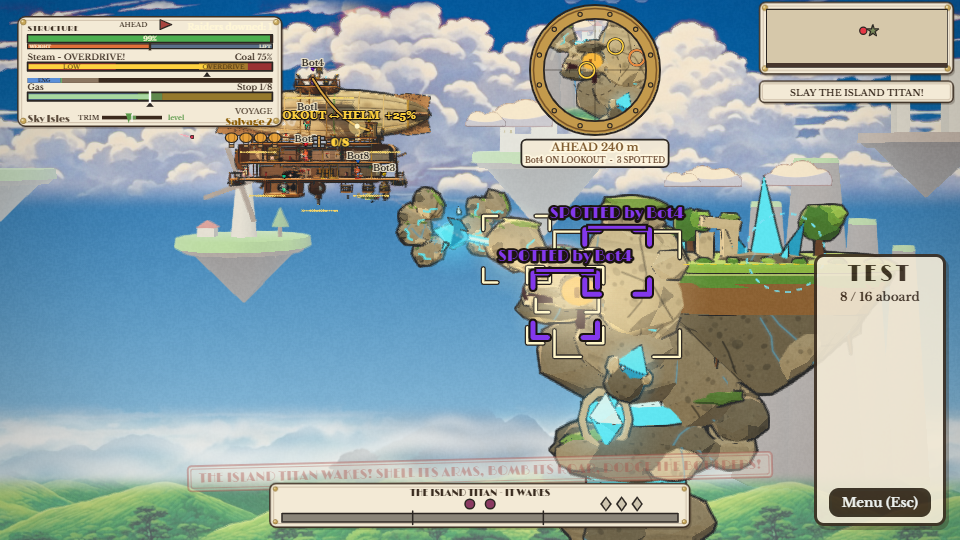
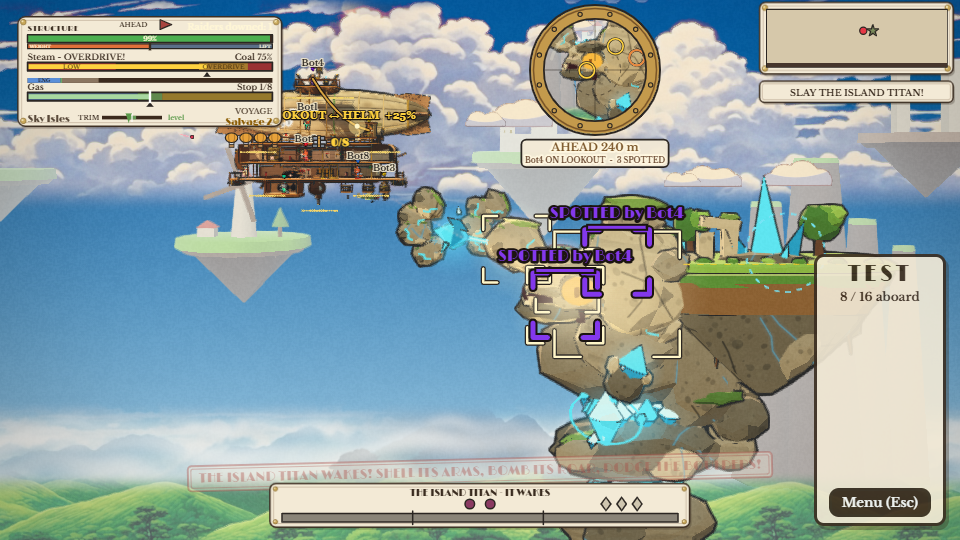
Island Titan 3D polish (v3): the chest's stone ring is replaced by a crystal heart hovering in the gap with a ring of light and orbiting shards; the arms' stones ease apart (and shrink to 60%) at rest so a glowing gap always shows; gap plates are crystal clusters with soft glows; bead-chain tethers;

diff --git a/public/modules/view3d/titanModel.js b/public/modules/view3d/titanModel.js
@@ -97,17 +97,29 @@ export function torsoZ(x, y) { // the depth of the torso's near skin at (x, y) (
   return z;
 }
 const topY = (s, x, z) => { const u = ((x - s[0]) / s[2]) ** 2 + (z / s[4]) ** 2; return u < 0.95 ? s[1] + s[3] * Math.sqrt(1 - u) : s[1] + s[3] * 0.2; }; // the height of a stone's top at (x, z)
-// a glowing crystal plate in the gap between two floating stones: a flattened disc (rx, rz) of cyan light with a pale heart
+// a cluster of crystal light in the gap between two floating stones: a fat pale column in the middle with a ring of tilted spires round it, each a two-tone bipyramid (lighter above, darker below, so the facets read). They are held
+// apart by the cluster and the sky shows between its spires (rx, rz = the half sizes at the stones, thick = the gap's height; the spires' ends are hidden in the stones)
 function addGapPlate(mesh, P, OW, cx, cy, rx, rz, thick, name) {
-  const g = new THREE.CylinderGeometry(1, 1, 1, 12, 1);
-  flat(mesh, g, M4(V(cx, cy, 0), null, V(rx, thick, rz)), { ow: OW * 0.3, color: P.crystal, glow: 3, name });
-  flat(mesh, g, M4(V(cx, cy, 0), null, V(rx * 0.7, thick * 1.08, rz * 0.7)), { ow: 0, color: P.crystalIn, glow: 4, name });
+  const spire = (x, z, r, hl, tiltX, tiltZ, top, bot, ow) => {
+    const up = new THREE.ConeGeometry(r, hl, 6, 1), dn = new THREE.ConeGeometry(r, hl, 6, 1);
+    up.translate(0, hl / 2, 0); dn.rotateX(Math.PI); dn.translate(0, -hl / 2, 0);
+    const q = new THREE.Quaternion().setFromEuler(new THREE.Euler(tiltX, 0.5, tiltZ));
+    flat(mesh, up, M4(V(cx + x, cy, z), q), { ow, color: top, glow: 3, name });
+    flat(mesh, dn, M4(V(cx + x, cy, z), q), { ow, color: bot, glow: 3, name });
+  };
+  const N = 9;
+  for (let k = 0; k < N; k++) {
+    const an = (k / N) * TAU + 0.35, x = Math.cos(an) * rx * 0.76, z = Math.sin(an) * rz * 0.76, h1 = hash(k, 7, 3), h2 = hash(k, 9, 4);
+    spire(x, z, rx * (0.2 + 0.06 * h1), thick * (0.85 + 0.4 * h2), Math.sin(an) * 0.14, -Math.cos(an) * 0.14, k % 2 ? P.crystalIn : P.crystal, P.crystalDk, OW * 0.3);
+  }
+  spire(0, 0, rx * 0.34, thick * 1.1, 0, 0, P.crystalIn, P.crystal, OW * 0.3);
 }
 const SEG = (a, b, w, d, color, mesh, o = {}) => { // a thin stick from a to b (3D points): a box along the line
   const dir = b.clone().sub(a), len = dir.length(), mid = a.clone().add(b).multiplyScalar(0.5), q = new THREE.Quaternion().setFromUnitVectors(V(1, 0, 0), dir.normalize());
   flat(mesh, new THREE.BoxGeometry(len, w, d), M4(mid, q), { color, ...o });
 };
 
+export const HEART = { x: 330, y: 960, z: 330 }; // the crystal heart's place in the body's frame
 export function buildTitan(cr, P, opts = {}) {
   const OW = P.INK || 26, low = !!opts.low, mesh = new Mesher();
   // --- the torso: three floating faceted boulders (chest, belly, hips) with a cyan plate of light in each gap ---
@@ -136,12 +148,12 @@ export function buildTitan(cr, P, opts = {}) {
   stone(mesh, rockGeo(880, 600, 290, { detail: 1, jitter: 0.12, seed: 51, squashTop: 0.2 }), M4(V(1210, -1700, hz)), { ow: OW * 0.9, color: P.stoneDk, name: 'heap', seed: 51 });
   for (const [x, y, r, k] of [[900, -1180, 230, 0], [1250, -1300, 260, 1], [1560, -1700, 220, 2], [700, -1650, 200, 3], [1100, -1850, 240, 4], [1850, -2000, 180, 5]]) stone(mesh, rockGeo(r, r * 0.8, r * 0.9, { detail: 1, jitter: 0.22, seed: 60 + k }), M4(V(x, y, hz + (k % 2 ? 90 : -40)), qz(k)), { ow: OW * 0.7, color: k % 2 ? P.stone : P.stoneLt, name: 'heap', seed: 60 + k });
   // --- the heartstone in the first gap and the vein that climbs the chest toward the island: cyan, glowing (channels 4 and 3) ---
-  const hx = 330, hy = 960, hzz = 340;
-  const crown = new THREE.ConeGeometry(1, 1, 4, 1), base = new THREE.ConeGeometry(1, 1, 4, 1);
+  const hx = HEART.x, hy = HEART.y, hzz = HEART.z; // a cut crystal heart hovering in the gap between the chest and the belly; no ring of stone: a thin ring of light with shards orbits it (the piece 'heartO')
+  const crown = new THREE.ConeGeometry(1, 1, 6, 1), base = new THREE.ConeGeometry(1, 1, 6, 1);
   crown.translate(0, 0.5, 0); base.rotateX(Math.PI); base.translate(0, -0.5, 0);
-  flat(mesh, crown, M4(V(hx, hy, hzz), qy(Math.PI / 4), V(190, 250, 110)), { ow: OW * 0.5, color: P.crystalIn, glow: 4, name: 'heartstone' });
-  flat(mesh, base, M4(V(hx, hy, hzz), qy(Math.PI / 4), V(190, 250, 110)), { ow: OW * 0.5, color: P.crystal, glow: 4, name: 'heartstone' });
-  flat(mesh, new THREE.TorusGeometry(215, 34, 5, 10), M4(V(hx, hy, hzz - 30), qy(0), V(1, 1.25, 0.6)), { ow: OW * 0.5, color: P.stoneLt, name: 'heartstone' });
+  flat(mesh, crown, M4(V(hx, hy + 20, hzz), qy(Math.PI / 6), V(170, 250, 120)), { ow: OW * 0.5, color: P.crystalIn, glow: 4, name: 'heartstone' });
+  flat(mesh, base, M4(V(hx, hy + 20, hzz), qy(Math.PI / 6), V(170, 320, 120)), { ow: OW * 0.5, color: P.crystal, glow: 4, name: 'heartstone' });
+  flat(mesh, base, M4(V(hx + 24, hy + 20, hzz + 40), qy(Math.PI / 6), V(80, 210, 56)), { ow: 0, color: P.crystalIn, glow: 4, name: 'heartstone' }); // the pale heart inside it
   const vein = [[330, 960], [230, 1250], [90, 1450], [-120, 1720], [-380, 1950]];
   for (let i = 0; i < vein.length - 1; i++) {
     const a = vein[i], b = vein[i + 1], za = Math.max(250, torsoZ(a[0], a[1]) + 26), zb = Math.max(200, torsoZ(b[0], b[1]) + 26);
@@ -186,8 +198,8 @@ function addHead(mesh, P, OW, low) {
   stone(mesh, rockGeo(260, 200, 330, { detail: 1, jitter: 0.2, seed: 4 }), M4(V(-150, 640, 0)), { ow: OW * 0.8, color: P.stone, name: 'head', seed: 4 });
   flat(mesh, rockGeo(330, 80, 300, { detail: 1, jitter: 0.25, seed: 5 }), M4(V(-170, 800, 20), qz(0.1)), { ow: OW * 0.3, color: P.moss, name: 'head' });
   flat(mesh, rockGeo(180, 60, 150, { detail: 1, jitter: 0.25, seed: 6 }), M4(V(-380, 540, -150)), { ow: OW * 0.3, color: P.mossDk, name: 'head' });
-  stone(mesh, rockGeo(170, 150, 150, { detail: 0, jitter: 0.2, seed: 7 }), M4(V(-420, 300, 410)), { ow: OW * 0.6, color: P.stoneLt, name: 'head', seed: 7 }); // ears
-  stone(mesh, rockGeo(170, 150, 150, { detail: 0, jitter: 0.2, seed: 8 }), M4(V(-420, 300, -410)), { ow: OW * 0.6, color: P.stoneLt, name: 'head', seed: 8 });
+  stone(mesh, rockGeo(165, 140, 130, { detail: 1, jitter: 0.22, seed: 7 }), M4(V(-420, 300, 410)), { ow: OW * 0.6, color: P.stone, name: 'head', seed: 7 }); // ears (rounded rocks, not flat hexagons)
+  stone(mesh, rockGeo(165, 140, 130, { detail: 1, jitter: 0.22, seed: 8 }), M4(V(-420, 300, -410)), { ow: OW * 0.6, color: P.stone, name: 'head', seed: 8 });
   // a rounded nose bridge above the lip
   stone(mesh, rockGeo(150, 125, 200, { detail: 1, jitter: 0.15, seed: 6 }), M4(V(650, 185, 0), qz(-0.1)), { ow: OW * 0.7, color: P.stoneLt, name: 'head', seed: 6 });
   // the eyes: a dark socket and a glowing amber ball (glow channel 1) on each side, under the brow
@@ -198,7 +210,7 @@ function addHead(mesh, P, OW, low) {
   }
   // the upper lip (a heavy rounded snout stone) with its row of stone teeth; behind it the dark throat that shows when the jaw drops
   stone(mesh, rockGeo(300, 95, 345, { detail: 1, jitter: 0.1, seed: 11 }), M4(V(545, 48, 0)), { ow: OW * 0.75, color: P.stone, name: 'head', seed: 11 });
-  flat(mesh, new THREE.BoxGeometry(70, 330, 600), M4(V(345, -110, 0)), { ow: 0, color: P.mouthIn, glow: 2, name: 'head' });
+  flat(mesh, new THREE.BoxGeometry(70, 250, 540), M4(V(345, -105, 0)), { ow: 0, color: P.mouthIn, glow: 2, name: 'head' });
   flat(mesh, new THREE.BoxGeometry(520, 40, 560), M4(V(590, -2, 0)), { ow: 0, color: P.mouthIn, glow: 2, name: 'head' }); // the roof of the mouth
   for (let k = 0; k < 5; k++) {
     const z = (k - 2) * 140, tooth = new THREE.ConeGeometry(50, 130, 4, 1);
@@ -271,6 +283,20 @@ function addBoulder(mesh, P, OW, r, nm, seed) {
   stone(mesh, rockGeo(r * 0.55, r * 0.4, r * 0.5, { detail: 0, jitter: 0.2, seed: seed + 2 }), M4(V(r * 0.5, -r * 0.45, r * 0.45)), { ow: OW * 0.3, color: P.boulderDk, name: nm, seed: seed + 2 });
 }
 
+// ---- the heart's orbit: a thin tilted ring of light with three crystal shards on it, built at the heart's centre; the view turns it about the vertical axis in held steps (the arms' shard rings do the same) ----------------------
+function addHeartOrbit(mesh, P, OW, name) {
+  const ring = new THREE.TorusGeometry(330, 13, 4, 28);
+  ring.rotateX(Math.PI / 2);
+  flat(mesh, ring, M4(V(0, 20, 0), qz(0.5)), { ow: 0, color: P.crystal, glow: 3, name });
+  for (let i = 0; i < 3; i++) {
+    const a = (i / 3) * TAU + 0.4, p = V(Math.cos(a) * 330, 20, Math.sin(a) * 330).applyQuaternion(qz(0.5)), q = qz(0.5 + (i - 1) * 0.3);
+    const up = new THREE.ConeGeometry(48, 96, 4, 1), dn = new THREE.ConeGeometry(48, 96, 4, 1);
+    up.translate(0, 48, 0); dn.rotateX(Math.PI); dn.translate(0, -48, 0);
+    flat(mesh, up, M4(p, q), { ow: OW * 0.3, color: i === 1 ? P.crystalIn : P.crystal, glow: i === 1 ? 4 : 3, name });
+    flat(mesh, dn, M4(p, q), { ow: OW * 0.3, color: P.crystalDk, glow: 3, name });
+  }
+}
+
 // ---- all the rigid pieces ------------------------------------------------------------------------------------------------------------------------------------------------------------------------
 export function buildPieces(cr, P, opts = {}) {
   const OW = P.INK || 26, low = !!opts.low, T = opts.T, mesh = new Mesher(), sides = low ? 9 : 12;
@@ -283,6 +309,7 @@ export function buildPieces(cr, P, opts = {}) {
   addRuin(mesh, P, OW, (T.ISLAND.X0 + T.ISLAND.X1) / 2 + 450, -T.ISLAND.TOP, opts.Z.ISLAND[0] + 560);
   for (let s = 0; s < 4; s++) addCrystal(mesh, P, OW, T.CRYSTAL.R, s);
   for (let b = 0; b < 3; b++) addBoulder(mesh, P, OW, T.BOULDER.R, 'boulder' + b, 140 + b * 7);
+  addHeartOrbit(mesh, P, OW, 'heartO');
   const arms = buildArmPieces(mesh, P, OW, T, { ...opts, cr });
   const geometry = mesh.build();
   return { geometry, set: new RigidSet(geometry, mesh.ranges), ranges: mesh.ranges, tris: mesh.verts / 3, arms };

diff --git a/public/modules/view3d/creatureTitan.js b/public/modules/view3d/creatureTitan.js
@@ -13,7 +13,7 @@ import { THREE, outlineMat, applyLook } from './style.js';
 import { config } from '../../config.js';
 import { Tinter, Mesher } from './creatureKit.js';
 import { paintTitanStone, paintBlank } from './titanPaint.js';
-import { buildTitan, buildPieces, JAW_PIVOT, V, M4, stone, rockGeo, hash } from './titanModel.js';
+import { buildTitan, buildPieces, JAW_PIVOT, HEART, V, M4, stone, rockGeo, hash } from './titanModel.js';
 import { addStoneBody, addCut, addBrokenHand, through, HAND } from './titanArms.js';
 import { createTitanOverlay } from './titanFx.js';
 
@@ -94,6 +94,23 @@ export function extendTitan(ctx) {
   const BOB = P.BOB || 22, SHIFT = 260; // (SHIFT: how far back a stone slides in depth where it would cover the face)
   const HEAD_AT = [T.BODY.HEAD.AT[0], -T.BODY.HEAD.AT[1]];
   const avoidHead = (x, y, r) => clamp((560 + 0.5 * r - Math.hypot(x - HEAD_AT[0], y - HEAD_AT[1])) / (0.6 * r + 60), 0, 1); // 1 where a near-arm stone would hide the face: it passes BEHIND the head there
+  // keep a glowing gap between the arm's stones (C: their centres, SC: their scales, both changed in place; A: the segments' angles; dm: the stones' sizes). The stone's reach along a direction is that of its ellipse.
+  const GAP = 150;
+  function spreadStones(C, SC, A, dm, n) {
+    const reach = (j, ux, uy) => { const th = 0.4 * FOLD(A[j]), c = Math.cos(th), s = Math.sin(th), lx = ux * c + uy * s, ly = -ux * s + uy * c, d = dm[j]; return 0.95 / Math.sqrt((lx / d.rx) ** 2 + (ly / d.ry) ** 2 + 1e-12); };
+    for (let it = 0; it < 2; it++) {
+      for (let j = 0; j + 1 < n; j++) {
+        let dx = C[j + 1].x - C[j].x, dy = C[j + 1].y - C[j].y, d = Math.hypot(dx, dy);
+        if (!(d > 1)) { dx = Math.cos(A[j]); dy = Math.sin(A[j]); d = 1; } // (the same place: along the arm)
+        const ux = dx / d, uy = dy / d, e0 = reach(j, ux, uy), e1 = reach(j + 1, -ux, -uy), need = e0 * SC[j] + e1 * SC[j + 1] + GAP;
+        if (d >= need) continue;
+        const push = Math.min(need - d, 0.25 * Math.min(dm[j].len, dm[j + 1].len)), w0 = j === 0 ? 0.4 : 0.55, w1 = 1 - w0;
+        C[j].x -= ux * push * w0; C[j].y -= uy * push * w0; C[j + 1].x += ux * push * w1; C[j + 1].y += uy * push * w1;
+        const d2 = d + push;
+        if (d2 < need) { const f = clamp((d2 - GAP) / (e0 + e1), 0.6, 1); SC[j] = Math.min(SC[j], f); SC[j + 1] = Math.min(SC[j + 1], f); }
+      }
+    }
+  }
   // o: { bp, bang, key, f, held (the boulder in this hand), gripping, gone, ta (the part's tint), GL (the glows) }
   function placeArm(tag, p, st, o) {
     const { bp, bang, key, f, held, gripping, gone, ta, GL } = o, full = dims[tag];
@@ -117,12 +134,17 @@ export function extendTitan(ctx) {
     { const sg = p.segs[n - 1], q = P3(sg.x + Math.cos(sg.ang) * sg.len, sg.y + Math.sin(sg.ang) * sg.len); J.push({ x: q.x, y: q.y, z: zAt(s, q.x, q.y) }); }
     const crackFrom = st >= 2 ? 1 : st === 1 ? 2 : 9;
     const tinted = (nme, fl) => ptint.set(rs[nme], ta[0] * fl, ta[1] * fl, ta[2] * fl);
+    // the stones' centres: the middle of each segment, but when the sim folds the arm in (its rest pose) they would crowd and overlap, so they are eased apart along the line between them (a quarter of a segment at most) and, if that is not
+    // enough, shrunk (to 60%) so a glowing gap always shows between two stones. VIEW ONLY: the joints, tethers, nodes and hand stay on the sim's own points, and an arm in a reach is not touched.
+    const CEN = [], SC = [1, 1, 1];
+    for (let j = 0; j < n; j++) CEN.push({ x: (J[j].x + J[j + 1].x) / 2, y: (J[j].y + J[j + 1].y) / 2, z: (J[j].z + J[j + 1].z) / 2 });
+    spreadStones(CEN, SC, A, full, n);
     for (let j = 0; j < 3; j++) {
       const na = 'a' + tag + j + 'a', nb = 'a' + tag + j + 'b', nt = 't' + tag + j;
       if (j >= n) { set.place(na, null); set.place(nb, null); set.place(nt, null); continue; }
-      const cracked = j >= crackFrom, fl = flickOf(key, tag, j, cracked), a = J[j], b = J[j + 1], mx = (a.x + b.x) / 2, my = (a.y + b.y) / 2, mz = (a.z + b.z) / 2;
+      const cracked = j >= crackFrom, fl = flickOf(key, tag, j, cracked), a = J[j], b = J[j + 1], mx = CEN[j].x, my = CEN[j].y, mz = CEN[j].z, sc = SC[j];
       set.place(cracked ? na : nb, null);
-      set.place(cracked ? nb : na, trn(mx, my + bobOf(key, tag, j) * BOB, mz).multiply(rotZ(0.4 * FOLD(A[j]))));
+      set.place(cracked ? nb : na, trn(mx, my + bobOf(key, tag, j) * BOB, mz).multiply(rotZ(0.4 * FOLD(A[j]))).multiply(scl(sc, sc, sc)));
       tinted(na, 1); tinted(nb, 1);
       const dx = b.x - a.x, dy = b.y - a.y, dz = b.z - a.z, d2 = Math.hypot(dx, dy), d3 = Math.hypot(d2, dz), L = full[j].len;
       set.place(nt, trn(a.x, a.y, a.z).multiply(rotZ(Math.atan2(dy, dx))).multiply(rotY(-Math.atan2(dz, Math.max(1, d2)))).multiply(scl(d3 / L, 1, 1)));
@@ -268,12 +290,15 @@ export function extendTitan(ctx) {
         set.place('jaw', Mj);
       } else { set.place('head', null); set.place('jaw', null); }
       // ---- the legs: they swap and lift on the sim's key while it walks; they shorten when it kneels ----
+      const GL = []; // (the soft glows of the body's light this frame, in the body's frame: x, y, z, radius, strength: the arms', the heart's and the gaps')
       const walking = !!tt.walking && !dying, leg = tt.leg ? 1 : 0, LG = T.BODY.LEGS;
       [['legN', LG.AT[0], 170, 1], ['legF', LG.AT[1], -170, 0]].forEach(([nme, lx, lz, isN]) => {
         const lifted = walking && (isN ? leg === 1 : leg === 0), swing = walking ? (lifted ? 0.1 : -0.05) : 0;
         const kn = 1 - 0.3 * S.kneel;
         const M = trn(lx, lifted ? LG.LIFT : 0, lz).multiply(trn(0, -2200, 0)).multiply(scl(1 + 0.1 * S.kneel, kn, 1 + 0.1 * S.kneel)).multiply(trn(0, 2200, 0)).multiply(trn(0, -380, 0)).multiply(rotZ(swing)).multiply(trn(0, 380, 0));
-        set.place(nme, inv ? inv.clone().multiply(M) : M);
+        const Wm = inv ? inv.clone().multiply(M) : M;
+        set.place(nme, Wm);
+        for (const gy of [-420, -1150, -1900]) { _bv.set(0, gy, lz + 250).applyMatrix4(Wm); GL.push([_bv.x, _bv.y, _bv.z, 460, 0.24]); }
       });
       if (walking && leg !== S.leg && S.feetKey !== key) { // a foot comes down: dust and a ring
         S.feetKey = key;
@@ -281,10 +306,12 @@ export function extendTitan(ctx) {
         if (Ptc && tt.floorY != null) { const wx = cr.x + f * (lx + 250), wy = -tt.floorY; Ptc.burst('dust', wx, wy + 40, BZ + 100, 7, { dir: Math.PI / 2, spread: 1.5, speed: [120, 520], up: [30, 140], size: [110, 220], size1: 2.2, life: [0.9, 1.6], color: '#b9a888', alpha: 0.55, area: 420 }); Ptc.ring(wx, wy + 30, BZ + 100, 1100, '#d9cbb0', 0.45); }
       }
       S.leg = leg;
+      // ---- the heart's orbit: a ring of light and three shards turning about the crystal heart in held steps (the heart is in the still body; the orbit goes out with it as the body goes under) ----
+      set.place('heartO', !dying || sk < 2.5 ? trn(HEART.x, HEART.y, HEART.z).multiply(rotY(-f * key * 0.3)) : null);
+      ptint.set(rs.heartO, tm[0], tm[1], tm[2]);
       // ---- the arms ----
       const heldBy = (p) => (cr.boulders || []).find((b) => b && b.mode === 'held' && b.arm === p && fin(b.x) && fin(b.y)) || null;
       const gripping = (p) => (cr.grips || []).some((g) => g && g.limb === p && (g.mode === 'hold' || g.mode === 'seize'));
-      const GL = []; // (the soft glows of the arms' light this frame, in the body's frame: x, y, z, radius, strength)
       for (const [tag, p] of [['N', armN], ['F', armF]]) {
         const frac = p ? p.hp / Math.max(1, p.maxHp) : 0, st = p && p.severed ? 2 : frac <= P.ARM_STAGES[1] ? 2 : frac <= P.ARM_STAGES[0] ? 1 : 0;
         if (p && !p.dead && st > S.armStage[tag] && S.loose.size < 40) { // it cracks: stone chips off the slab that took the blow
@@ -368,7 +395,7 @@ export function extendTitan(ctx) {
       { // the soft glow of the floating stones' light (the heartstone too): fades as the body goes under
         const gk = dying ? 1 - clamp((sk - 2) / 2.5, 0, 1) : 1;
         if (gk > 0.02) {
-          GL.push([330, 960, 420, 600, 0.3 * (1 + (key & 1) * 0.4)]);
+          GL.push([HEART.x, HEART.y, HEART.z + 90, 560, 0.3 * (1 + (key & 1) * 0.4)], [0, 960, 330, 800, 0.24], [0, 265, 330, 720, 0.22]);
           for (const g of GL) { _bv.set(g[0], g[1], g[2]).applyMatrix4(R.hg.matrix); overlay.glow(_bv.x, _bv.y, _bv.z, g[3] * k, g[4] * gk); }
         }
       }

diff --git a/public/modules/view3d/titanArms.js b/public/modules/view3d/titanArms.js
@@ -51,10 +51,10 @@ export function addStoneBody(mesh, P, OW, rx, ry, rz, name, seed, o = {}) {
 // ---- the tether: a thin beam from the joint along +x for L: a cyan prism with a pale core (hidden inside the stones, it shows in the gaps) -------------------------------------------------------------------------
 export function addTether(mesh, P, L, name, w = 1) {
   const hex = (r, col, glow, len) => { const g = new THREE.CylinderGeometry(r, r, len, 6, 1); g.rotateZ(Math.PI / 2); g.translate(len / 2, 0, 0); flat(mesh, g, null, { ow: 0, color: col, glow, name }); };
-  hex(40 * w, P.crystal, 3, L);
-  flat(mesh, new THREE.BoxGeometry(L, 26 * w, 14 * w), M4(V(L / 2, 6 * w, 34 * w)), { ow: 0, color: P.crystalIn, glow: 4, name }); // a pale highlight along the near face: the beam has facets
-  flat(mesh, new THREE.BoxGeometry(L, 14 * w, 12 * w), M4(V(L / 2, -22 * w, 30 * w)), { ow: 0, color: P.crystalDk, glow: 3, name });
-  for (const u of [0.07, 0.93, 0.5]) putDiamond(mesh, 55 * w, 42 * w, V(L * u, 0, 0), new THREE.Quaternion(), P.crystalIn, 4, 0, name, 6, P.crystal); // beads of light along it (the ones in the gaps show)
+  hex(24 * w, P.crystal, 3, L); // a thin thread of light (the stones hide most of it) ...
+  flat(mesh, new THREE.BoxGeometry(L, 14 * w, 9 * w), M4(V(L / 2, 4 * w, 20 * w)), { ow: 0, color: P.crystalIn, glow: 4, name }); // a pale highlight along the near face: the thread has facets
+  // ... and a string of crystal beads that swell toward the stones: three at each end of the segment, where the stones leave a gap, so the gap shows a chain of light, not a flat bar
+  for (const [u, k] of [[0.8, 0.8], [0.86, 0.62], [0.92, 0.46], [0.2, 0.8], [0.14, 0.62], [0.08, 0.46]]) putDiamond(mesh, 62 * w * k, 40 * w * k, V(L * u, 0, 0), qx(u * 7), P.crystalIn, 4, 0, name, 6, P.crystal);
 }
 // a joint's crystal: a diamond along the arm with a pale heart (built at the joint)
 export function addNode(mesh, P, OW, r, name) {

diff --git a/3D.md b/3D.md
@@ -946,9 +946,9 @@ SHIPS_BOOK.md L4 follow-up. View only (`view3d/`); nothing in `host/` is touched
 **Files** (`public/modules/view3d/`): `creatureTitan.js` (the Titan's extension of the generic creature view: it places every piece from the sim's parts each frame; the stepped head, jaw, legs, kneel and crush; the floating arms, their bob, flicker, hand poses and glows; the stone it sheds; the death), `titanModel.js` (the torso as three floating stones, the rubble heap, the heartstone and vein, the legs as stacked stones, the head, jaw, island, trees, ruin, crystal in four stages and the held boulder, plus the stone kit: jittered icosahedra, cut blocks, box-mapped stone UVs, the glowing gap plate), `titanArms.js` (the boulders, tethers, joint nodes, orbiting shards, the shoulder socket, the palm crystal, the finger stones and their layouts, the snapped stub), `titanPaint.js` (the tiling weathered stone and its glow twin), `titanFx.js` (the marks: one draw call; the soft glow of the arms' light: one more). Small edits: `creature.js` (`KINDS.titan`), `glows3d.js`, `config.CREATURE3D.TITAN` (colours, `BOB`, the depths `Z`), `tools/creature3d-check.mjs` (section 4c), `tools/view3d-check.mjs` (the `titan` scene), `tools/titan-shots.mjs` (`--view 3d` writes `titan3d_*.png`; `--prefix titan3d_v2_` for the v2 set; `--only`, `--until`, `--dpr`, `--clip`, `--focus` for close-ups). No simulation file is touched: `--check-botsim` byte-identical, `--lint`, `--check-3d-lint` and `--check-creature` pass.
 
 **The idea.** The whole colossus is ROUNDED FACETED BOULDERS that FLOAT a little apart (warm grey stone, moss on top, thin cyan crack veins from the stone's glow twin), held together by glowing cyan crystal light: tethers, plates, nodes and a few orbiting shards. No physical elbow, knee or waist.
-- TORSO: three big stones (chest, belly, hips) with a hand's breadth between them and a flattened cyan plate of light in each gap; shoulder mounds, a back ridge, raised facets, moss. The HEARTSTONE (a cut diamond in a stone ring) burns in the first gap; the VEIN of crystal studs climbs the chest toward the island (a two-key pulse on the heartstone, a steady glow on the vein).
+- TORSO: three big stones (chest, belly, hips) with a hand's breadth between them and a CLUSTER of crystal spires in each gap (a fat pale column among nine tilted two-tone spires, with a soft glow quad behind it; the legs' gaps the same); shoulder mounds, a back ridge, raised facets, moss. The HEART (v3) is a cut crystal hovering where the chest and belly part, with NO stone ring: a thin tilted ring of light with three crystal shards turns about it in held steps (`heartO`, `key * 0.3` rad, the key steps of the arms' shard rings) and a glow quad pulses behind it; the VEIN of crystal studs climbs the chest toward the island (a two-key pulse on the heart, a steady glow on the vein).
 - HEAD: a cranium stone, a face block (the eyes sit in its sides), a dark brow stone floating over the eyes, a snout with teeth, ears, a crown stone with moss, big glowing amber eyes (glow channel 1). Its lower front is cut away, so the hinged JAW stone drops in sixths of `openAmt` for the roar and the dark throat glows (channel 2). It tips back in three held steps for the roar.
-- ARMS: for each sim arm THREE BOULDERS, one per segment, centred on the segment (a stepped bob of `BOB` px on its own phase, a quarter turn with the arm so the moss stays on top) with a gap of about 40% of the segment either side of each joint. Between them: a TETHER beam from joint to joint (a prism with a pale highlight and beads of light; hidden inside the stones, it shows in the gaps), a crystal NODE at each joint, three crystal SHARDS orbiting each joint in stepped angles, and a SOFT GLOW (additive round quads, depth tested). At the shoulder a stone cup with a crystal burning in it: the SOCKET, which stays when the arm is gone. The positions are the sim's own: joints = the segments' ends, stones at their middles.
+- ARMS: for each sim arm THREE BOULDERS, one per segment, centred on the segment (a stepped bob of `BOB` px on its own phase, a quarter turn with the arm so the moss stays on top) with a gap of about 40% of the segment either side of each joint. When the sim folds an arm in (its rest pose) the centres would crowd, so `spreadStones` (creatureTitan.js) eases them apart along the line between them (at most a quarter of a segment) and, if that is not enough, shrinks them to 60% so a glowing gap of at least 150 px always shows; joints, tethers, nodes and the hand stay on the sim's own points and an arm in a reach is untouched (view only). Between them: a TETHER (a thin thread with a pale highlight and a string of three crystal beads that swell toward each stone at both ends of the segment; hidden inside the stones, the chain shows in the gaps), a crystal NODE at each joint, three crystal SHARDS orbiting each joint in stepped angles, and a SOFT GLOW (additive round quads, depth tested). At the shoulder a stone cup with a crystal burning in it: the SOCKET, which stays when the arm is gone. The positions are the sim's own: joints = the segments' ends, stones at their middles.
 - HANDS: a big PALM CRYSTAL at the wrist among FOUR FINGER STONES. By the sim's own state: relaxed (idle, half curled), FIST (the wind-up: they clench round the crystal), OPEN (the strike / seize: they spread), GRIP (the hand on the gasbag: two stones in front of the bag and two behind it, at the ship's depth), CRADLE (a held boulder: the stones cup it from below, the palm crystal under it), BROKEN (an arm under a third of its health: two stones are left, cracked).
 - DAMAGE: at 66% of an arm's health its outer boulder cracks (a crater, thick bright cracks, pebbles floating off the break) and the tether into it flickers in held steps (two keys, a darker tint); at 33% the middle one too, and the hand breaks. Stone chips fall as Rapier bodies with dust and sparks.
 - SHOT OFF: the light snaps (a white-cyan flash, a ring, sparks), the stump keeps its remaining boulders and a snapped crystal stub, the socket burns on, and the boulders that came off (with the broken hand) fall as Rapier bodies, one each (`ext.makeChunk`, tumbling with the sim's own kick and spin). When the Titan DIES the light goes out in both arms and all their boulders drop as Rapier bodies.
@@ -965,7 +965,9 @@ SHIPS_BOOK.md L4 follow-up. View only (`view3d/`); nothing in `host/` is touched
 
 **What the model reads** (for whoever changes the fight): `cr.parts` (`armN`/`armF`: three `segs`, hp, `severed`, `ctl.mode` (`wind` = fist, `strike` / `seize` = open, `grip`); `torso`, `head`, `mouth` (`openAmt`), `crystal` (hp, `hit`, `job.prog`)), `cr.titan` (`mode`, `walking`, `leg`, `pose`, `roar`, `rings`, `tremor`, `floorY`), `cr.boulders`, `cr.grips` (`limb`, `mode`), `cr.mouthWin`, `cr.chunks`, `cr.sinkT`, `state.away.island`.
 
-**Known gaps.** The sim's rest pose folds an arm's three boulders close together near the head (the stones overlap more than they float there); in a reach they spread with their gaps. The tethers and crystals are flat-coloured (a glowing surface takes no shading), so they get their facets from two tones and a pale highlight strip. The stone texture is one tile mapped by faces: a rock's texture changes at its edges. The funnel's gold tint covers the roaring head. Rapier bodies follow the generic wreckage world (the lair's plain is not a special floor).
+**v3 polish** (3D.md section 39 was reworked after the owner asked for more): the chest's stone ring is gone (see TORSO), the arms' rest pose is spread (see ARMS), the gap plates became crystal clusters with soft glows (the glow quads now also sit at the five body gaps and the heart: 17 of the 24 at most), the tethers are chains of beads, the ears are rounded rocks (not flat hexagons) and the dark throat box under the lip is shorter (it no longer hangs below a shut jaw like a tongue). Measured: 7 meshes (budget 10), about 47k triangles with ink at Medium (44k Low; v2 was 43k), 1.4-1.6 ms of view JS. Screenshots: `node tools/titan-shots.mjs --view 3d --prefix titan3d_v3_`.
+
+**Known gaps.** The tethers and crystals are flat-coloured (a glowing surface takes no shading), so they get their facets from two tones and a pale highlight strip. The stone texture is one tile mapped by faces: a rock's texture changes at its edges. The funnel's gold tint covers the roaring head. Rapier bodies follow the generic wreckage world (the lair's plain is not a special floor).
 
 ## 40. The Rime Wyrm in 3D (built)
 **Files** (`public/modules/view3d/`): `creatureWyrm.js` (the Wyrm's extension of the generic creature view: it places every piece from the sim's parts each frame; the ice's steps, the shards, the eruption, the coil's depth, the jaws, the breath, the sun, the death), `wyrmModel.js` (the models: 12 scaled segments, the collar, the underbelly, the horned head, the jaws, and the ice in three states), `wyrmPaint.js` (the tiling scale hide and its cold-seam glow twin, Canvas 2D), `wyrmFx.js` (the marks: one draw call; the cracks on the cliff: one draw call, only while it cracks). Small edits: `creature.js` (`KINDS.wyrm`), `glows3d.js` (the Wyrm's body, collar and head get a red halo only where a gun may hit them, a bare segment, and smaller, behind it), `config.CREATURE3D.WYRM` (colours, glow, depth, ice numbers), `tools/creature3d-check.mjs` (section 4d), `tools/view3d-check.mjs` (the `wyrm` scene, `tools/fixtures/shots3d/wyrm.png`), `tools/wyrm-shots.mjs` (`--view 3d` writes `wyrm3d_*.png`). No simulation file is touched: `--check-botsim` byte-identical, `--lint`, `--check-3d-lint` and `--check-creature` pass.
